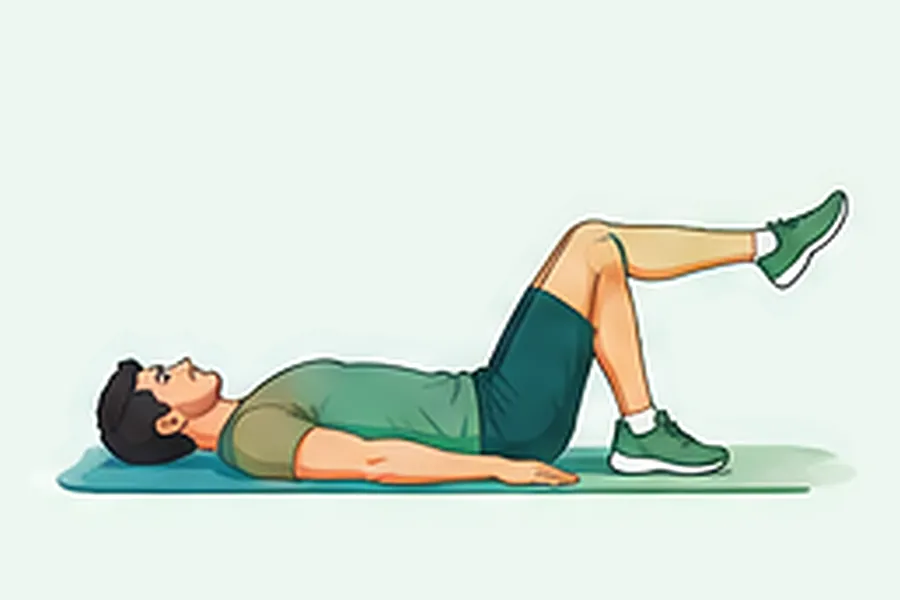
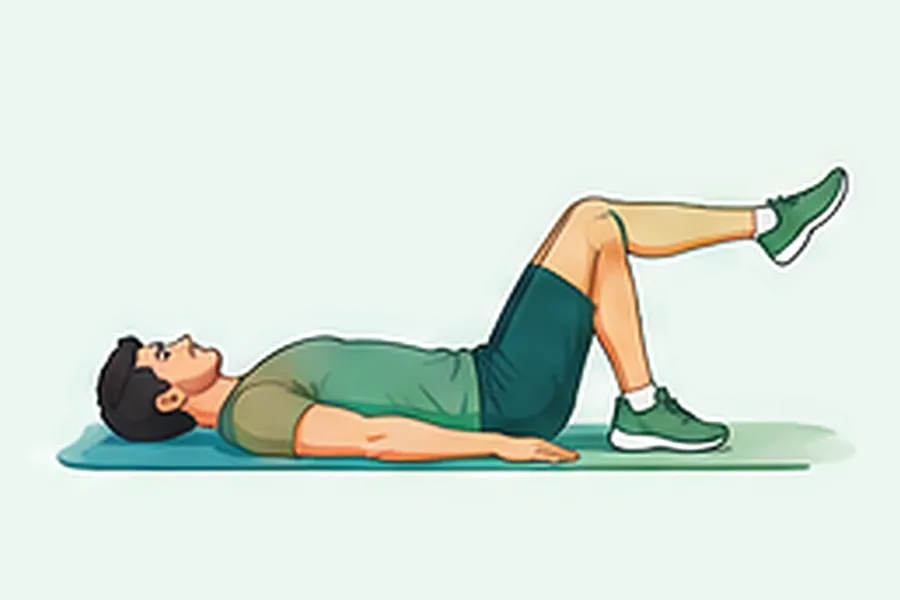
Replace single-leg bridge end frame with corrected illustration
Claude-Session: https://claude.ai/code/session_01TirABMfYiZZGLW4zisMM6D

Changed region(s): [[0.0622, 0.27, 0.9644, 0.84]]

diff --git a/sw.js b/sw.js
@@ -1,4 +1,4 @@
-const VERSION='bc-v12';
+const VERSION='bc-v13';
 const SHELL=['./','./index.html','./manifest.webmanifest','./icons/icon-192.png','./icons/icon-512.png','./icons/badge.png','./img/birddog-a.webp','./img/birddog-b.webp','./img/brace-a.webp','./img/brace-b.webp','./img/breath-a.webp','./img/breath-b.webp','./img/bridge-a.webp','./img/bridge-b.webp','./img/catcamel-a.webp','./img/catcamel-b.webp','./img/clamshell-a.webp','./img/clamshell-b.webp','./img/curlup-a.webp','./img/curlup-b.webp','./img/farmer-a.webp','./img/farmer-b.webp','./img/hamstring-a.webp','./img/hamstring-b.webp','./img/heel-a.webp','./img/heel-b.webp','./img/hipflexor-a.webp','./img/hipflexor-b.webp','./img/piriformis-a.webp','./img/piriformis-b.webp','./img/sideplank-a.webp','./img/sideplank-b.webp','./img/slbridge-a.webp','./img/slbridge-b.webp','./img/splitsquat-a.webp','./img/splitsquat-b.webp','./img/stepup-a.webp','./img/stepup-b.webp','./img/tilt-a.webp','./img/tilt-b.webp','./img/walk-a.webp','./img/walk-b.webp'];
 self.addEventListener('install',e=>{e.waitUntil(caches.open(VERSION).then(c=>c.addAll(SHELL)).then(()=>self.skipWaiting()))});
 self.addEventListener('activate',e=>{e.waitUntil(caches.keys().then(ks=>Promise.all(ks.filter(k=>k!==VERSION&&k!=='bc-config'&&k!=='bc-fonts').map(k=>caches.delete(k)))).then(()=>self.clients.claim()))});
